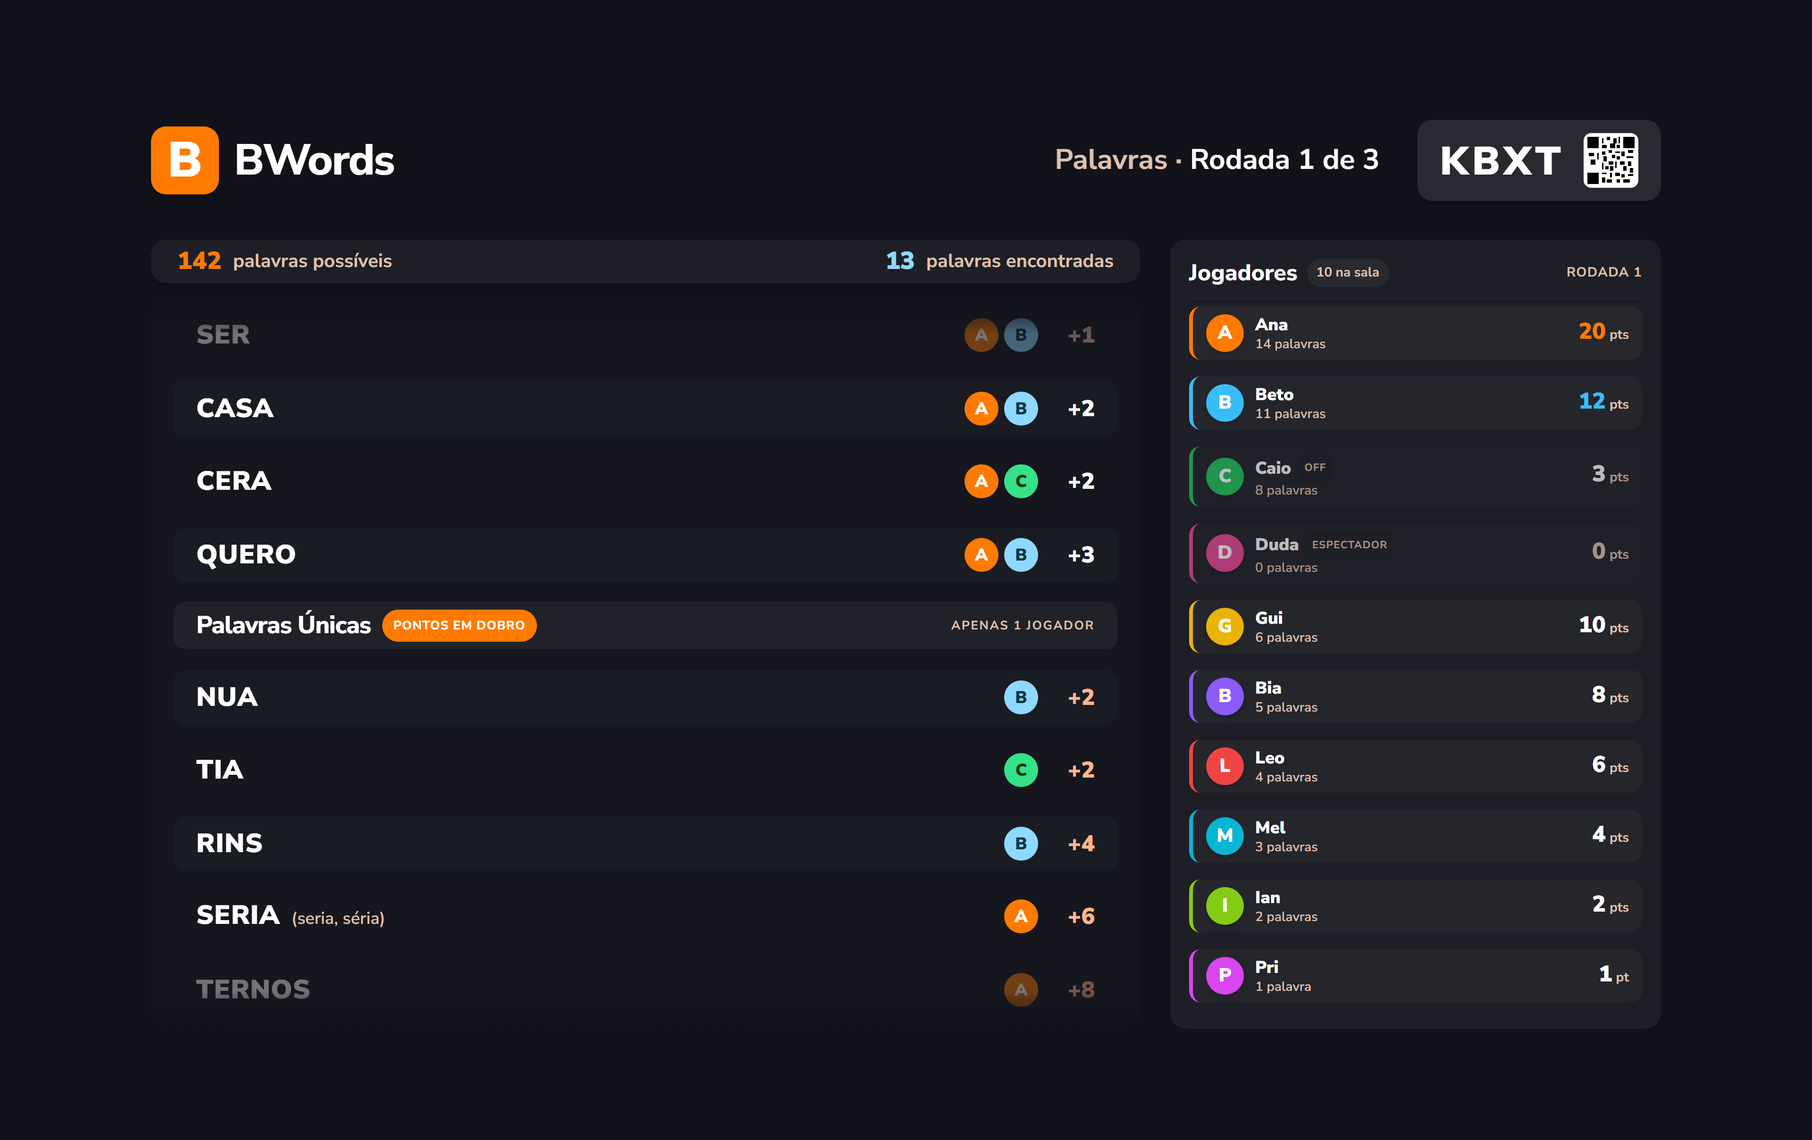
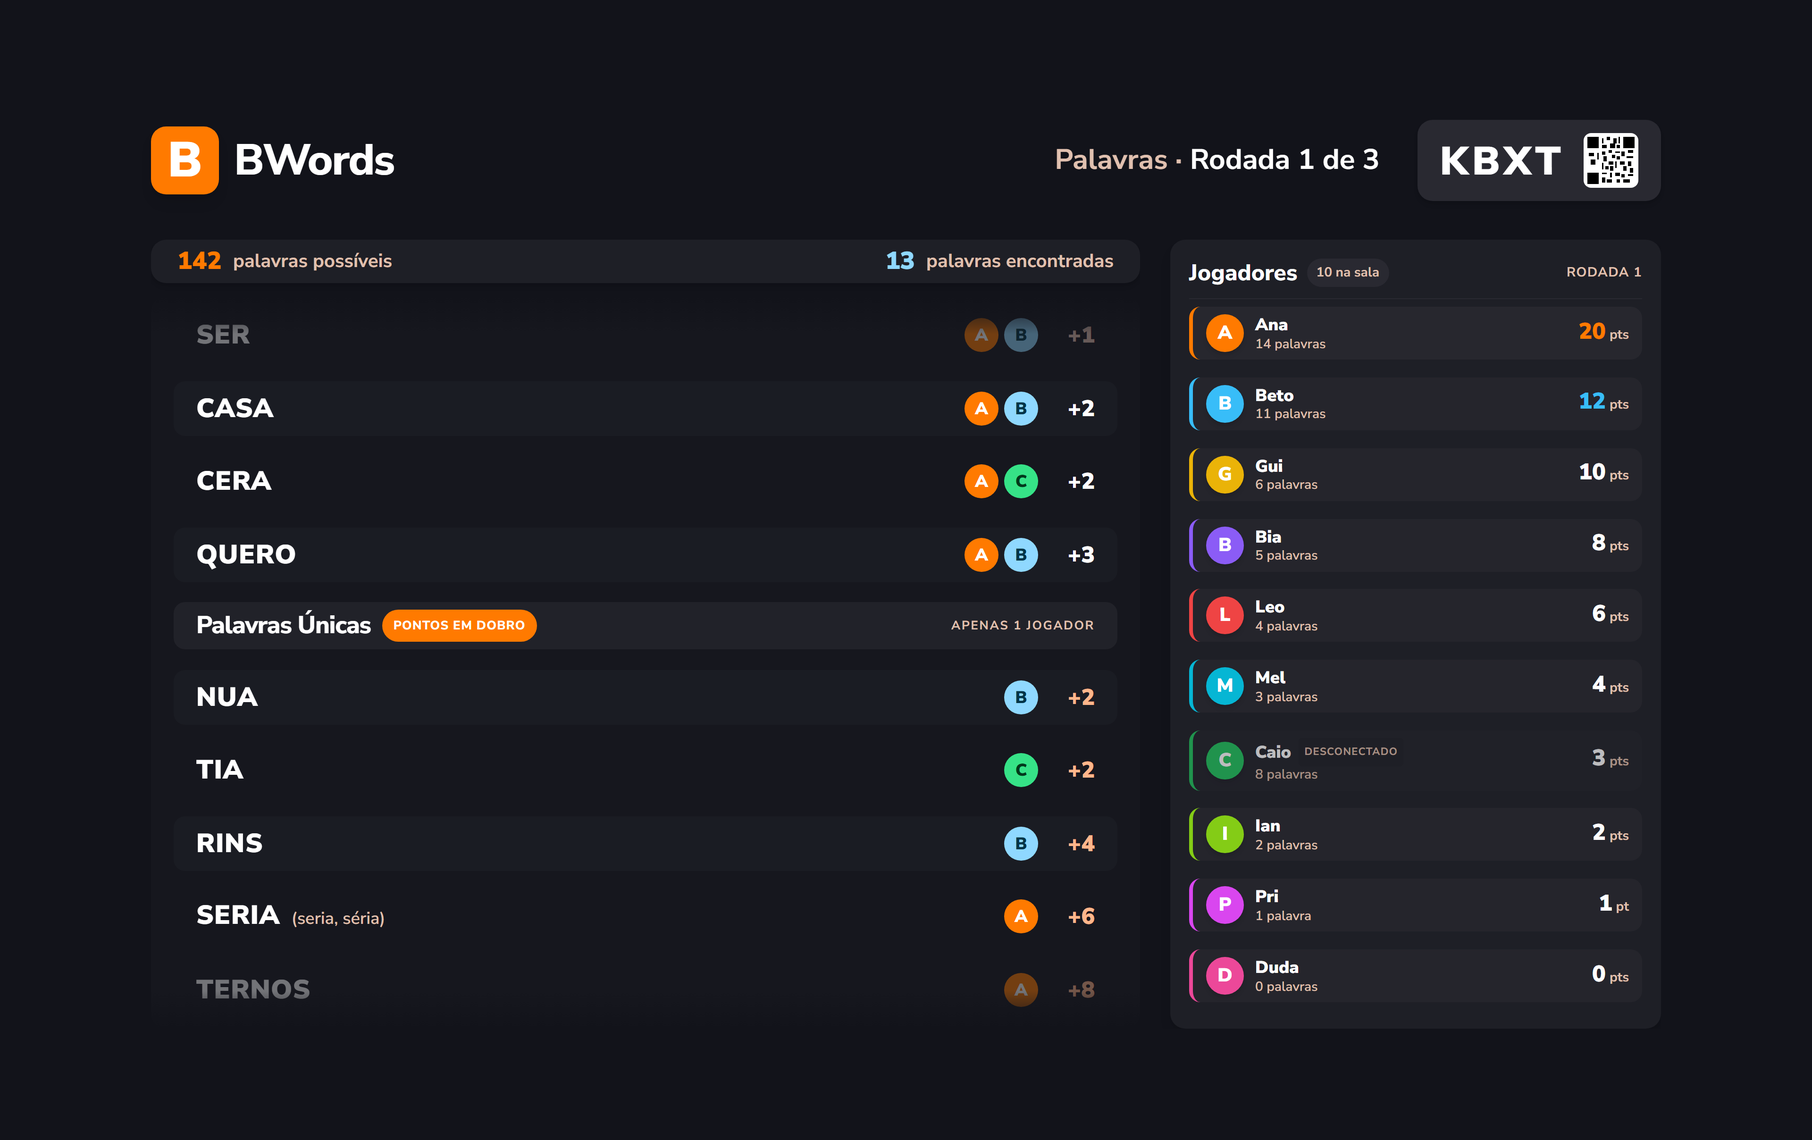
docs: rank the players beside the words in m4-1

diff --git a/.specs/features/m4-1-playtest/spec.md b/.specs/features/m4-1-playtest/spec.md
@@ -46,7 +46,9 @@ O primeiro teste em TV e celular reais, com o M4 publicado na Cloudflare, funcio
 | Lista que cabe no painel | O destaque desce de palavra em palavra, uma por segundo, com a lista parada, e para na última | O destaque guia a leitura mesmo sem rolagem | n - default |
 | Som do destaque | Um "check" curto e sintetizado, como o de palavra válida do celular, a cada palavra destacada; é um efeito, então a opção "Música" não o desliga | Pedido do user | som: y - user: "Na lista de palavras, coloque o funcionamento de grifar e ou destacar uma palavra por vez enquanto a tela desce, para guiar a leitura dos usuários, junto efeito de grifar deve tocar um som de \"check\" ou \"pontuação\" valida."; fora da opção "Música": n - default |
 | Destaque no controle manual | Quando o anfitrião toca ▲ ou ▼, o destaque e o som param, e a lista fica sem destaque até o fim | O destaque segue a leitura automática; no manual, quem conduz é o anfitrião | n - default |
-| Jogadores ao lado da lista | Uma coluna à esquerda da lista, com os jogadores da rodada na ordem de entrada na sala; "N plvrs" já com o total da rodada; os pontos começam em 0 e somam a cada palavra destacada, com uma animação simples na linha de quem pontuou; no controle manual, os pontos saltam para o total; quem entrou atrasado e não jogou fica fora da coluna | O ranking continua revelado só em "Ver resultado" | y - user: "Aplique a recomendação mas adicione uma animação simples aos jogadores que receberam algum ponto no mesmo momento do check da palavra, a quantidade de palavras nessa pagina ja deve vir com valor da rodada completo, apenas os pontos vão somando." |
+| Jogadores ao lado da lista | Painel "Jogadores" à direita da lista, como na tela do Stitch; "N palavras" por extenso, já com o total da rodada; os pontos começam em 0 e somam a cada palavra destacada, com uma animação na linha de quem pontuou; o painel se reordena pelos pontos a cada palavra, e no empate vale a ordem de entrada; cada card desliza inteiro até a posição nova; painel e cards com tamanho fixo; desconectado com "DESCONECTADO" e card esmaecido; quem entrou atrasado e não jogou fica fora; no controle manual, os pontos saltam para o total | Pedido do user; o ranking da rodada se forma durante a lista | y - user: "a listagem de jogadores na pagina de lista de palavras, toda vez que uma palavra for \"computada\" ou seja os pontos forem aplicados aos jogadores que acharam aquela palavra, a lista deve ficar alterando a posição dos usuários com uma animação suave. veja o layout da pagina Plaavras da Rodada no stitch"; user: "1. Concordo. 2. Concordo, ajustado no stitch tabém 3. Concordo, ajustado no stitch também 4. Ajustado no Stitch 5. O card todo deve fazer a animação de troca de posições quando necessario. A lista deve maner um tamanho fixo para evitar comportamentos e ou glitchs indejados e os itens da lista se ordenam de acordo com os pontos" |
+| Destaque do líder no painel | O card do 1º tem o fundo mais claro, e os pontos do 1º e do 2º ficam na cor de cada um, acompanhando a ordem a cada reordenação | Como no Stitch | n - default; o user respondeu só sobre a animação na pergunta 5 |
+| "N na sala" no topo do painel | Conta os jogadores do painel, os da rodada | O painel não mostra quem não jogou | n - default |
 | Sala guardada antes desta feature | Um jogador sem a contagem de palavras guardada conta 0 palavras | Salas abertas no momento do deploy; achado do batch 1 | n - default |
 | TV recarregada na lista | Volta ao topo, com a rolagem automática | A posição da lista só existe na TV | n - default |
 | Celular durante a lista | Jogadores, espectadores e o anfitrião veem "Olhe para a TV"; o anfitrião vê também ▲, ▼ e "Ver resultado" | Pedido do user | y - user: "no celular pode ter uma tela intermediaria que manda apenas olhar para tv" |
@@ -123,12 +125,19 @@ O primeiro teste em TV e celular reais, com o M4 publicado na Cloudflare, funcio
 15. WHEN uma palavra passa a ficar destacada THEN the TV SHALL tocar um "check" curto
 16. WHEN o anfitrião toca ▲ ou ▼ THEN the TV SHALL tirar o destaque e parar o "check" até o fim da lista
 17. The TV SHALL destacar só com cor e escala, sem mudar a posição das outras palavras
-18. WHILE a TV mostra a lista de palavras, the TV SHALL mostrar ao lado dela uma coluna com cada jogador da rodada, na ordem de entrada na sala, com o círculo, o apelido, as palavras da rodada inteira ("N plvrs") e os pontos
+18. WHILE a TV mostra a lista de palavras, the TV SHALL mostrar à direita dela o painel "Jogadores" com cada jogador da rodada: o círculo e a borda na cor do jogador, o apelido, as palavras da rodada inteira ("14 palavras", "1 palavra") e os pontos ("20 pts", "1 pt")
 19. WHEN a lista de palavras abre THEN the TV SHALL mostrar os pontos de cada jogador em 0
 20. WHEN uma palavra passa a ficar destacada THEN the TV SHALL somar os pontos dela a cada jogador que a achou, no mesmo momento do "check"
 21. WHEN os pontos de um jogador sobem THEN the TV SHALL animar a linha desse jogador, só com `transform` e `opacity`
 22. WHEN o anfitrião toca ▲ ou ▼ THEN the TV SHALL mostrar os pontos completos da rodada de cada jogador
 23. WHEN o destaque chega à última palavra THEN the TV SHALL mostrar em cada jogador os mesmos pontos da rodada que o resultado mostra
+24. WHEN os pontos mudam THEN the TV SHALL ordenar o painel pelos pontos, do maior para o menor, e no empate pela ordem de entrada na sala
+25. WHEN um jogador muda de posição no painel THEN the TV SHALL deslizar o card inteiro dele até a posição nova, só com `transform`
+26. The TV SHALL manter o painel e cada card com tamanho fixo, sem crescer nem encolher com a reordenação
+27. IF um jogador da rodada está desconectado THEN the TV SHALL mostrar "DESCONECTADO" ao lado do apelido e esmaecer o card
+28. The TV SHALL deixar fora do painel quem entrou atrasado e não jogou a rodada
+29. WHILE um jogador está em 1º, the TV SHALL dar ao card dele o fundo mais claro e mostrar os pontos do 1º e do 2º na cor de cada um
+30. WHEN a lista de palavras abre THEN the TV SHALL mostrar a tela em `.specs/features/m4-1-playtest/captures/tv-words.png`
 
 **Independent Test**: Terminar uma rodada com uma lista longa, conferir a rolagem a uma linha por segundo, rolar com ▲ e ▼, chegar ao fim, esperar e tocar "Ver resultado".
 
@@ -294,7 +303,7 @@ O primeiro teste em TV e celular reais, com o M4 publicado na Cloudflare, funcio
 | Requirement ID | Story | Phase | Status |
 | --- | --- | --- | --- |
 | TVAWAKE-01 | P1: Tela da TV sempre ativa (AC 1-5) | Design | Pending |
-| WORDCTL-01 | P1: Lista de palavras conduzida pelo anfitrião (AC 1-23) | Design | Pending |
+| WORDCTL-01 | P1: Lista de palavras conduzida pelo anfitrião (AC 1-30) | Design | Pending |
 | SYNC-01 | P1: Celulares sincronizados com a TV (AC 1-6) | Design | Pending |
 | RESULT-02 | P1: Resultado com pontos e palavras (AC 1-10) | Design | Pending |
 | MUSIC-01 | P2: Música e vinheta (AC 1-16) | Design | Pending |
@@ -303,7 +312,7 @@ O primeiro teste em TV e celular reais, com o M4 publicado na Cloudflare, funcio
 | NOZOOM-01 | P1: Celular sem zoom (AC 1-3) | Design | Pending |
 | M4FIX-01 | P1: Pendências do M4 (AC 1-5) | Design | Pending |
 
-**Coverage:** 82 total
+**Coverage:** 89 total
 
 ---
 
@@ -318,9 +327,14 @@ O primeiro teste em TV e celular reais, com o M4 publicado na Cloudflare, funcio
 | `tv-round-result.png`: confete entre as rodadas | Confete só na última rodada | y - AD-024, que mantém AD-021 |
 | `tv-round-result.png`: "Resultado · Rodada 1 de 3" e "Aguardando Ana avançar…" em toda rodada | Na última rodada, "<vencedor> venceu!" e "Aguardando Ana: jogar de novo ou voltar ao lobby" | y - AD-024, que mantém AD-021 |
 
+| `tv-words.png`: nenhuma palavra destacada | Uma palavra por vez destacada na linha de leitura (WORDCTL-01 AC 13-17) | y - AD-024 |
+| `tv-words.png`: círculos das palavras nas cores do tema | Círculos na cor de cada jogador, como no M4 | y - AD-030 |
+| `tv-words.png`: margem de 64 px em volta do quadro | A tela ocupa a janela inteira, como as outras telas da TV | y - AD-030 |
+
 ## Sources
 
-- `.specs/features/m4-tv/captures/tv-words.png` (capture do M4) - a lista de palavras ganha a coluna de jogadores à esquerda, por AD-030
+- Stitch, projeto 13555119467933870727, tela "TV - Palavras da Rodada" (`9e9f8f8f1b9943febdfd28d7883c943f`), depois dos ajustes do user: a capture foi renderizada do HTML; ela tem 1920x1208 porque o HTML põe 64 px de margem em volta do quadro de 1920x1080, e a comparação vale para a composição desse quadro
+- ![tv-words](captures/tv-words.png) - binding - lista de palavras com o painel "Jogadores" à direita, ordenado pelos pontos
 
 - `.specs/features/m4-1-playtest/context.md` - o pedido e as respostas do user, com as palavras dele
 - `.specs/features/m4-tv/spec.md` - os critérios do M4 que esta feature muda: TVWORDS-01 AC 1, 6-9; TVRES-01 AC 1-3; TVLOBBY-01 AC 10; SERVE-01; PHONE-01 AC 1

diff --git a/.specs/features/m4-1-playtest/tasks.md b/.specs/features/m4-1-playtest/tasks.md
@@ -102,7 +102,7 @@ T16 → T17 → T18 → T19 → T20 → T21 → T46
 Pontos e palavras, a ordem por rodada ou partida, a foto e a partida inteira pelo Worker.
 
 ```
-T21 → T22 → T23 → T24 → T25 → T26 → T27 → T28
+T21 → T22 → T23 → T24 → T25 → T26 → T27 → T47 → T28
 ```
 
 ### Phase 6: Música e vinheta
@@ -584,15 +584,15 @@ T39 → T40 → T41 → T42 → T43 → T44
 
 ### T46: Players beside the words
 
-**What**: `model/words-players.ts` calcula, a cada passo do destaque, os pontos somados de cada jogador da rodada, na ordem de entrada, e quem acabou de pontuar; `WordsScreen` mostra a coluna à esquerda da lista, com "N plvrs" da rodada completa, e anima com `transform`/`opacity` a linha de quem pontuou no "check".
+**What**: `model/words-players.ts` calcula, a cada passo do destaque, os pontos somados de cada jogador da rodada, a ordem por pontos (empate pela entrada), o 1º e o 2º e quem acabou de pontuar; `WordsScreen` mostra o painel "Jogadores" à direita da lista, como em `captures/tv-words.png`, com cards de tamanho fixo que deslizam inteiros até a posição nova (FLIP com `transform`) e animam no "check" quem pontuou.
 **Where**: `packages/tv/src/model/words-players.ts` (create), `packages/tv/src/screens/WordsScreen.tsx` (modify)
 **Depends on**: T21
-**Reuses**: a regra de plural de "plvrs" da tabela de strings
+**Reuses**: a regra de plural da tabela de strings
 **Requirement**: WORDCTL-01
 
 **Done when**:
 
-- [ ] C112-C116
+- [ ] C112-C122
 - [ ] Gate check passes
 - [ ] Test count: anterior + novos, nenhum removido sem o critério que o substitui
 
@@ -724,11 +724,31 @@ T39 → T40 → T41 → T42 → T43 → T44
 
 ---
 
+### T47: Words picture
+
+**What**: `words.picture.ts` grava `.specs/features/m4-1-playtest/captures/tv-words.running.png` numa janela de 1920x1080 com `deviceScaleFactor: 2`, com os dados da capture (13 palavras, 10 jogadores, Caio desconectado) e a lista parada no meio, com o painel já ordenado.
+**Where**: `packages/tv/e2e/words.picture.ts` (create)
+**Depends on**: T27
+**Reuses**: `pictureWindow`, `samples.ts`
+**Requirement**: WORDCTL-01
+
+**Done when**:
+
+- [ ] C123: foto em `captures/tv-words.running.png`, 3840x2160
+- [ ] Gate check passes
+- [ ] Test count: anterior + novos, nenhum removido sem o critério que o substitui
+
+**Tests**: e2e
+**Gate**: full
+**Commit**: `test(tv): take the picture of the words`
+
+---
+
 ### T28: TV match through the worker
 
 **What**: A partida inteira da TV com 3 celulares toca "Ver resultado" pelo celular do anfitrião em cada rodada.
 **Where**: `packages/tv/e2e/full-match.spec.ts` (modify)
-**Depends on**: T27
+**Depends on**: T47
 **Reuses**: `packages/tv/e2e/phones.ts`
 **Requirement**: SYNC-01
 
@@ -1407,6 +1427,27 @@ Proof: `npx vitest run packages/tv/src/model/words-players.test.ts -t "ends at t
 **C116** - Na TV, a linha de quem pontuou anima no "check", e a coluna fica à esquerda da lista (WORDCTL-01, AC 18, 21)
 Proof: `npx playwright test -c packages/tv/playwright.config.ts packages/tv/e2e/words.spec.ts -g "animates the players who scored with the check"`
 
+**C117** - O painel se ordena pelos pontos, do maior para o menor, e no empate pela ordem de entrada (WORDCTL-01, AC 24)
+Proof: `npx vitest run packages/tv/src/model/words-players.test.ts -t "orders the players by points, ties by joining order"`
+
+**C118** - A cada reordenação, o card que muda de posição desliza inteiro só com transform (WORDCTL-01, AC 25)
+Proof: `npx playwright test -c packages/tv/playwright.config.ts packages/tv/e2e/words.spec.ts -g "slides the whole card to its new place"`
+
+**C119** - O painel e cada card mantêm o tamanho durante a reordenação (WORDCTL-01, AC 26)
+Proof: `npx playwright test -c packages/tv/playwright.config.ts packages/tv/e2e/words.spec.ts -g "keeps the panel and the cards the same size while they reorder"`
+
+**C120** - O desconectado mostra "DESCONECTADO" e card esmaecido, e quem entrou atrasado fica fora (WORDCTL-01, AC 27-28)
+Proof: `npx vitest run packages/tv/src/model/words-players.test.ts -t "tags the disconnected and leaves out who did not play"`
+
+**C121** - O card do 1º tem o fundo mais claro, e os pontos do 1º e do 2º ficam na cor de cada um (WORDCTL-01, AC 29)
+Proof: `npx vitest run packages/tv/src/model/words-players.test.ts -t "marks the first two places"`
+
+**C122** - "14 palavras", "1 palavra", "20 pts" e "1 pt" no painel (WORDCTL-01, AC 18)
+Proof: `npx vitest run packages/tv/src/model/words-players.test.ts -t "writes words and points in full, singular at one"`
+
+**C123** - A lista de palavras abre como em `captures/tv-words.png` (WORDCTL-01, AC 30)
+Proof: browser captures/tv-words.running.png
+
 **C108** - Na TV LG da sala, com a página aberta e sem tocar no controle, a TV não entra em descanso numa partida de 3 rodadas de 3 min (TVAWAKE-01, AC 1-5; Goals)
 Proof: walk - caminhada do user na TV real, depois do deploy que ele pedir; resultado em `**Walked:**`
 
@@ -1423,7 +1464,7 @@ Proof: walk - caminhada do user na TV e num celular reais; resultado em `**Walke
 The feature's live state, written as it happens - a compaction gives no warning.
 
 **Settled mid-build:** padrões da apresentação das tarefas aceitos com a aprovação: celulares recebem pontos e contagem de palavras, sem palavras, antes de "Ver resultado"; a música de fundo continua entre partidas e só recomeça ao recarregar a TV; sem chip "Música" no lobby da TV; peças de palavra curta demais voltam ao normal; user: "aprovo as tarefas"; none
-**Dispatched:** batch worker fase 1 (T1-T8) a partir do commit seguinte a 3b2216b (push feito em 3b2216b a pedido do user) - returned (T1 7901080, T2 145010e, T3 6830435, T4 ed36908, T5 997f084, T6 d8e4646, T7 c2580cf, T8 d29292a; vitest 1042 e tsc verdes, conferidos pelo orquestrador em d29292a; phone e2e 78+1 e tv e2e 77+1 vermelhos só em `full-match.spec.ts`, dentro da janela; `match.test.ts` do servidor vermelho de T3 a T6, fora da janela prevista, verde desde T6; sala guardada antes da mudança não tem o campo `words` dos jogadores, sem default). MUSIC-01 emendado depois do batch 1: as tarefas da fase 6 precisam ser reescritas antes do batch 5. T45 (salas antigas, default do orquestrador) e T46 (jogadores ao lado da lista, AD-030) entraram depois da aprovação das tarefas; user: "Aplique a recomendação mas adicione uma animação simples aos jogadores que receberam algum ponto no mesmo momento do check da palavra, a quantidade de palavras nessa pagina ja deve vir com valor da rodada completo, apenas os pontos vão somando."
+**Dispatched:** batch worker fase 1 (T1-T8) a partir do commit seguinte a 3b2216b (push feito em 3b2216b a pedido do user) - returned (T1 7901080, T2 145010e, T3 6830435, T4 ed36908, T5 997f084, T6 d8e4646, T7 c2580cf, T8 d29292a; vitest 1042 e tsc verdes, conferidos pelo orquestrador em d29292a; phone e2e 78+1 e tv e2e 77+1 vermelhos só em `full-match.spec.ts`, dentro da janela; `match.test.ts` do servidor vermelho de T3 a T6, fora da janela prevista, verde desde T6; sala guardada antes da mudança não tem o campo `words` dos jogadores, sem default). MUSIC-01 emendado depois do batch 1: as tarefas da fase 6 precisam ser reescritas antes do batch 5. T45 (salas antigas, default do orquestrador) e T46 (jogadores ao lado da lista, AD-030) entraram depois da aprovação das tarefas; T46 ganhou a ordem por pontos e T47 (foto da lista) entrou na fase 5, com C117-C123; user: "1. Concordo. 2. Concordo, ajustado no stitch tabém 3. Concordo, ajustado no stitch também 4. Ajustado no Stitch 5. O card todo deve fazer a animação de troca de posições quando necessario. A lista deve maner um tamanho fixo para evitar comportamentos e ou glitchs indejados e os itens da lista se ordenam de acordo com os pontos"; user: "Aplique a recomendação mas adicione uma animação simples aos jogadores que receberam algum ponto no mesmo momento do check da palavra, a quantidade de palavras nessa pagina ja deve vir com valor da rodada completo, apenas os pontos vão somando."
 **Walked:** none
 
 ---
@@ -1435,7 +1476,7 @@ Phase 1:  T1 --→ T2 --→ T3 --→ T4 --→ T5 --→ T6 --→ T7 --→ T8
 Phase 2:  T9 --→ T10 --→ T11 --→ T12 --→ T13 --→ T45
 Phase 3:  T14 --→ T15 --→ T16
 Phase 4:  T17 --→ T18 --→ T19 --→ T20 --→ T21 --→ T46
-Phase 5:  T22 --→ T23 --→ T24 --→ T25 --→ T26 --→ T27 --→ T28
+Phase 5:  T22 --→ T23 --→ T24 --→ T25 --→ T26 --→ T27 --→ T47 --→ T28
 Phase 6:  T29 --→ T30 --→ T31 --→ T32 --→ T33 --→ T34 --→ T35
 Phase 7:  T36 --→ T37 --→ T38 --→ T39
 Phase 8:  T40 --→ T41 --→ T42 --→ T43 --→ T44

diff --git a/.specs/STATE.md b/.specs/STATE.md
@@ -210,6 +210,7 @@ Decisões de projeto ficam em `docs/DESIGN.md` (inclui A1, §5.5) e nas tabelas 
 - **Data:** 2026-11-03
 - **Decisão:** a lista de palavras da TV ganha uma coluna com os jogadores da rodada, na ordem de entrada, com as palavras da rodada completas e os pontos somando a cada palavra destacada, com uma animação na linha de quem pontuou. Diverge da composição de `m4-tv/captures/tv-words.png`, que só tem a lista.
 - **Motivo:** pergunta: "Na lista de palavras, ficaria muita informação, permanecer mostrando os participantes [...]?" Recomendação: totais que crescem com o destaque, na ordem de entrada. user: "Aplique a recomendação mas adicione uma animação simples aos jogadores que receberam algum ponto no mesmo momento do check da palavra, a quantidade de palavras nessa pagina ja deve vir com valor da rodada completo, apenas os pontos vão somando."
+- Complemento (2026-11-03): o painel fica à direita, como na tela "TV - Palavras da Rodada" do Stitch, e se reordena pelos pontos a cada palavra computada, com o card inteiro deslizando até a posição nova, em tamanho fixo; "N palavras" por extenso; sem quem entrou atrasado; "DESCONECTADO" no desconectado. Os círculos das palavras seguem na cor do jogador e a tela ocupa a janela inteira, sem a margem do HTML. user: "a listagem de jogadores na pagina de lista de palavras, toda vez que uma palavra for \"computada\" ou seja os pontos forem aplicados aos jogadores que acharam aquela palavra, a lista deve ficar alterando a posição dos usuários com uma animação suave. veja o layout da pagina Plaavras da Rodada no stitch"; user: "1. Concordo. 2. Concordo, ajustado no stitch tabém 3. Concordo, ajustado no stitch também 4. Ajustado no Stitch 5. O card todo deve fazer a animação de troca de posições quando necessario. A lista deve maner um tamanho fixo para evitar comportamentos e ou glitchs indejados e os itens da lista se ordenam de acordo com os pontos"
 
 ## Handoff
 

diff --git a/.specs/features/m4-1-playtest/context.md b/.specs/features/m4-1-playtest/context.md
@@ -47,6 +47,8 @@ Os itens 3 e 6 e o pódio sincronizado contrariam decisões e critérios aprovad
 
 - Emenda de 2026-11-03 à coluna de jogadores: a cada palavra computada, a coluna se reordena pelos pontos com uma animação suave; substitui a ordem de entrada. A referência é a tela "TV - Palavras da Rodada" do Stitch (screen `9e9f8f8f1b9943febdfd28d7883c943f`), renderizada do HTML em `captures/tv-words.png` (1920x1208, porque o HTML tem 64 px de margem em volta do quadro de 1920x1080). user: "a listagem de jogadores na pagina de lista de palavras, toda vez que uma palavra for \"computada\" ou seja os pontos forem aplicados aos jogadores que acharam aquela palavra, a lista deve ficar alterando a posição dos usuários com uma animação suave. veja o layout da pagina Plaavras da Rodada no stitch"
 
+- Respostas sobre a tela do Stitch: user: "1. Concordo. 2. Concordo, ajustado no stitch tabém 3. Concordo, ajustado no stitch também 4. Ajustado no Stitch 5. O card todo deve fazer a animação de troca de posições quando necessario. A lista deve maner um tamanho fixo para evitar comportamentos e ou glitchs indejados e os itens da lista se ordenam de acordo com os pontos"
+
 ### Música
 
 - Música original no estilo de jogos antigos, calma, gerada no navegador, sem arquivo nem licença. O user pode trocá-la depois.
